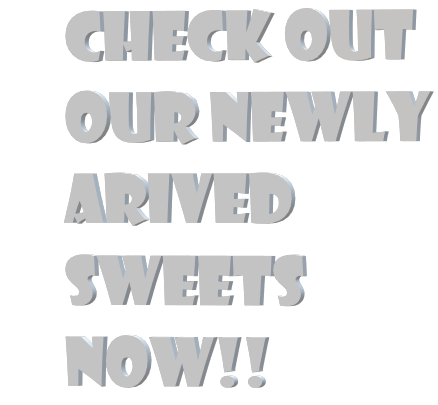
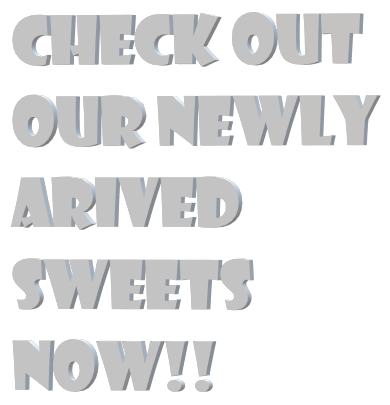
changes

diff --git a/Main_page.html b/Main_page.html
@@ -23,8 +23,8 @@
 
 	<!--  Scrolling tabs  -->
 	<div style="width: 100%; height: 450px; background-color: red">
-		<div style="width: 20%; height: 100%; float: left; background-color: pink; font-size: 50px">
-			Check Out Our New Collection Now !!
+		<div style="width: 20%; height: 100%; float: left; background-color: #1a0d00;">
+			<img src="leftban.png" style="width: 100%; height: 100%">
 		</div>
 		
 		<div style="float: right; width: 20%; height: 100%; background-color: #1a0d00">
